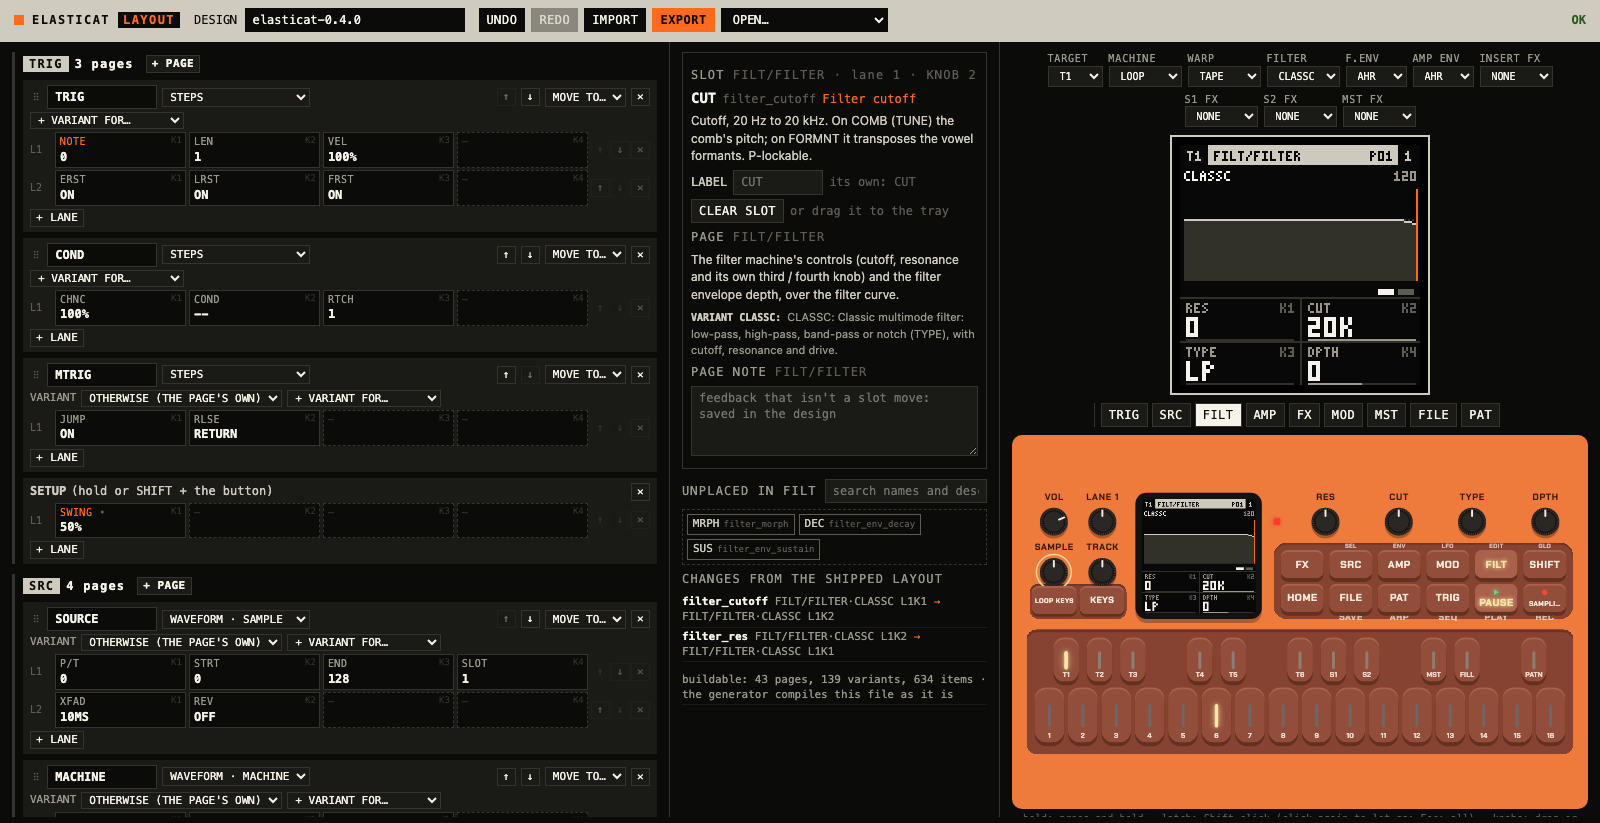
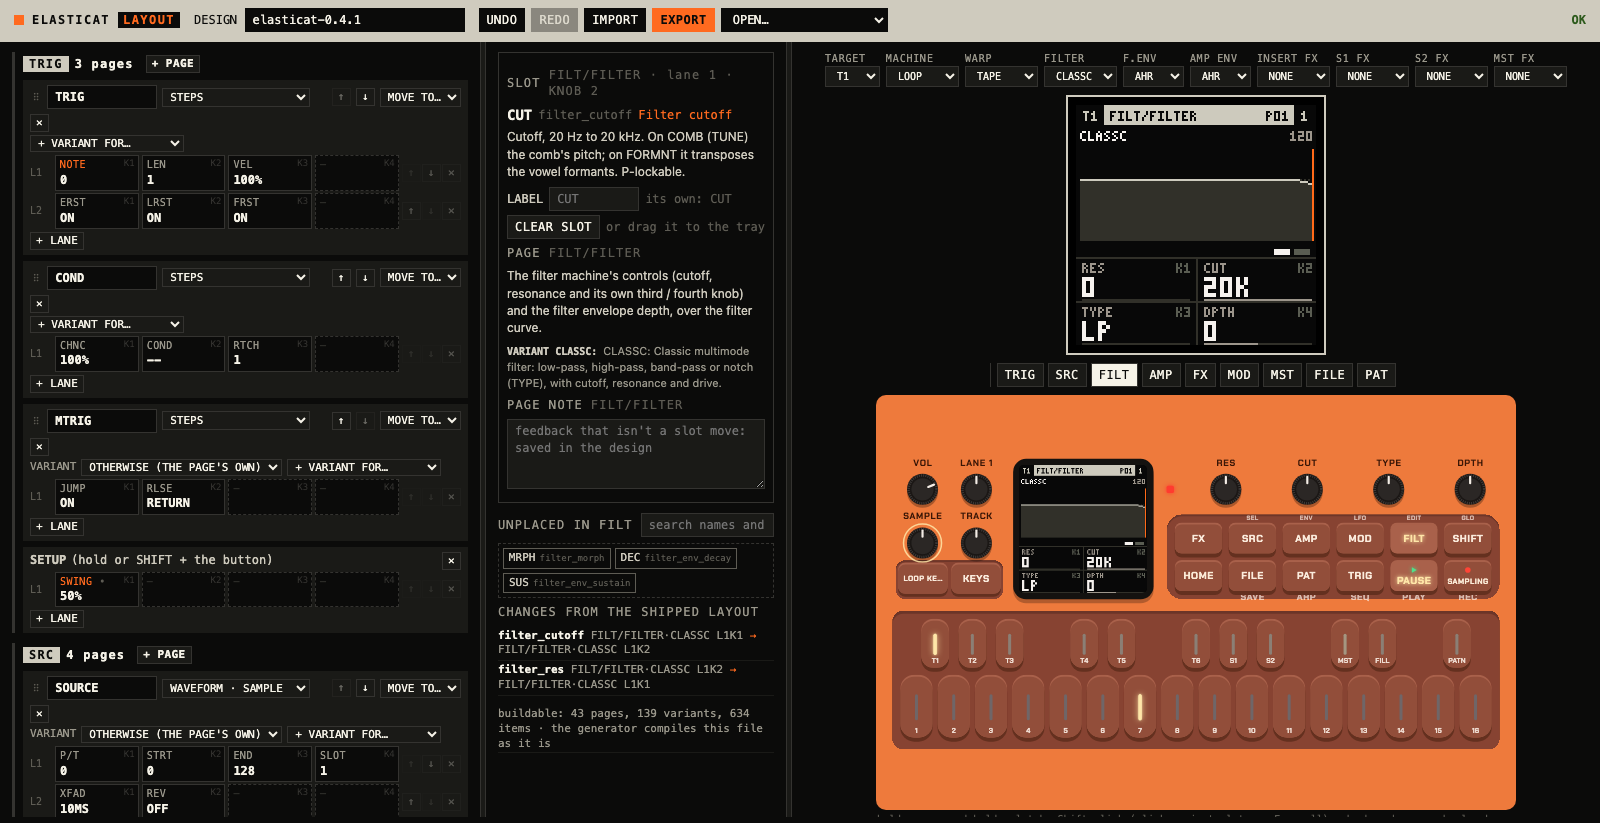
Layout designer: resizable columns, the tree 30% by default, lanes capped
Two splitters between tree | side | preview: the tree a share of the
width (30% by default, at least 300 px), the side in px (at least 220),
the preview the rest (at least 470 px, the FM-1 at most 640). Kept in
local storage; a double-click on a splitter resets its column. A lane is
at most 560 px wide. test_designer.mjs 9: 30% at 1280 and 2000 px, a drag,
kept across a reload, the double-click; 09_columns_2000.png.

diff --git a/tools/layout/designer.js b/tools/layout/designer.js
@@ -891,6 +891,54 @@ function drawPanel() {
   P.view.draw();
 }
 
+// ------------------------------------------------------------------------------------------------ the column widths
+// tree | side | preview, two splitters: the tree a share of the width (30% by default), the side in px, the preview
+// the rest (never under its minimum, so the screen and the FM-1 stay whole). Kept in this browser; a double-click on
+// a splitter gives its column back its default.
+const COLS_STORE = "elasticat-layout-cols-v1";
+const COLS = { tree: 0.30, side: 300, treeMin: 300, sideMin: 220, centreMin: 470, split: 6 };
+const cols = { tree: COLS.tree, side: COLS.side };
+try { Object.assign(cols, JSON.parse(localStorage.getItem(COLS_STORE)) || {}); } catch (e) { /* defaults */ }
+if (!(cols.tree > 0 && cols.tree < 1)) cols.tree = COLS.tree;
+if (!(cols.side > 0 && cols.side < 4000)) cols.side = COLS.side;
+function sizeColumns(save) {
+  const main = $("main"), W = main.clientWidth, room = W - 2 * COLS.split - COLS.centreMin;
+  const side = Math.round(Math.max(COLS.sideMin, Math.min(cols.side, room - COLS.treeMin)));
+  const tree = Math.round(Math.max(COLS.treeMin, Math.min(cols.tree * W, room - side)));
+  main.style.setProperty("--tree-w", tree + "px");
+  main.style.setProperty("--side-w", side + "px");
+  if (save) try { localStorage.setItem(COLS_STORE, JSON.stringify(cols)); } catch (e) { /* not kept */ }
+}
+function setupSplitters() {
+  const main = $("main");
+  [["#split0", "tree"], ["#split1", "side"]].forEach(([sel, which]) => {
+    const sp = $(sel);
+    sp.addEventListener("pointerdown", (ev) => {
+      ev.preventDefault();
+      sp.setPointerCapture(ev.pointerId);
+      sp.classList.add("drag"); document.body.classList.add("coldrag");
+      const x0 = ev.clientX, t0 = $("#tree").offsetWidth, s0 = $("#side").offsetWidth, W = main.clientWidth;
+      const move = (e) => {
+        const dx = e.clientX - x0;
+        if (which === "tree") cols.tree = (t0 + dx) / W; else cols.side = s0 + dx;
+        sizeColumns(false);
+      };
+      const up = () => {
+        sp.removeEventListener("pointermove", move); sp.removeEventListener("pointerup", up); sp.removeEventListener("pointercancel", up);
+        sp.classList.remove("drag"); document.body.classList.remove("coldrag");
+        // keep what the clamps gave, not what the pointer asked
+        cols.tree = $("#tree").offsetWidth / W; cols.side = $("#side").offsetWidth;
+        sizeColumns(true);
+      };
+      sp.addEventListener("pointermove", move); sp.addEventListener("pointerup", up); sp.addEventListener("pointercancel", up);
+    });
+    sp.addEventListener("dblclick", () => { cols[which] = COLS[which]; sizeColumns(true); });
+  });
+  window.addEventListener("resize", () => sizeColumns(false));
+  sizeColumns(false);
+}
+setupSplitters();
+
 // ------------------------------------------------------------------------------------------------ the test API
 function ref(scope, a = {}) { return { scope, cat: a.cat, pi: a.pi, bus: a.bus, vi: a.vi ?? -1, lane: a.lane ?? 0, k: a.k ?? 0 }; }
 window.designer = {
@@ -925,5 +973,7 @@ window.designer = {
     releaseLatches: () => S.panel.controls.releaseLatches(),
   },
   desc: () => S.desc,
+  // the three columns' widths (px) and the page's
+  columns: () => ({ main: $("main").clientWidth, tree: $("#tree").offsetWidth, side: $("#side").offsetWidth, centre: $("#centre").offsetWidth }),
 };
 boot().catch((e) => { document.body.prepend(h("pre", { style: "color:#ff4a3d" }, "the preview did not start: " + (e && e.stack || e))); window.designer.error = String(e); });

diff --git a/tools/layout/designer.css b/tools/layout/designer.css
@@ -30,9 +30,14 @@ input:focus, select:focus, textarea:focus, button:focus-visible { outline: 1px s
 #status { margin-left: auto; font-weight: 700; }
 #status .e { color: #b3261e; } #status .w { color: #7a5b00; } #status .ok { color: #2d5a1c; }
 /* the tree | the side | the preview with the FM-1 under it (bottom right) */
-main { display: grid; grid-template-columns: minmax(340px, 1fr) minmax(250px, 330px) minmax(470px, 600px);
+/* the widths: two splitters (designer.js sizeColumns: the tree ~30% by default, the side in px, the preview the rest) */
+main { display: grid; grid-template-columns: var(--tree-w, 30%) 6px var(--side-w, 300px) 6px minmax(470px, 1fr);
   gap: 0; height: calc(100vh - 48px); }
-main > section { overflow: auto; padding: 10px 12px; border-right: 1px solid var(--l3); }
+main > section { overflow: auto; padding: 10px 12px; min-width: 0; }
+.split { cursor: col-resize; background: var(--l2); border-left: 1px solid var(--l3); border-right: 1px solid var(--l3);
+  touch-action: none; user-select: none; }
+.split:hover, .split.drag { background: var(--acc); }
+body.coldrag { cursor: col-resize; user-select: none; }
 .h { color: var(--l8); letter-spacing: .1em; margin: 6px 0; display: flex; align-items: center; gap: 8px; }
 /* ---- the tree */
 .cat { margin-bottom: 10px; border-left: 3px solid var(--l3); padding-left: 8px; }
@@ -55,7 +60,8 @@ main > section { overflow: auto; padding: 10px 12px; border-right: 1px solid var
 .vrow { display: flex; align-items: center; gap: 5px; margin: 3px 0; color: var(--l8); font-size: 11px; flex-wrap: wrap; }
 .vrow select { font-size: 11px; padding: 0 3px; max-width: 220px; }
 .shared { color: var(--l8); font-size: 11px; margin: 3px 0; }
-.lane { display: grid; grid-template-columns: 22px repeat(4, minmax(0, 1fr)) auto; gap: 3px; margin: 2px 0; align-items: stretch; }
+.lane { display: grid; grid-template-columns: 22px repeat(4, minmax(0, 1fr)) auto; gap: 3px; margin: 2px 0; align-items: stretch;
+  max-width: 560px; }
 .lane .ln { color: var(--l5); font-size: 10px; align-self: center; }
 .lane.on .ln { color: var(--acc); font-weight: 700; }
 .lane .lops { display: flex; gap: 1px; align-items: center; opacity: .25; }
@@ -82,7 +88,7 @@ main > section { overflow: auto; padding: 10px 12px; border-right: 1px solid var
 #screenwrap { padding: 8px; background: #000; border: 2px solid var(--l12); flex: none; }
 /* the preview: 2x where the window is tall enough, smaller so the panel stays in view under it */
 #screen { --s: clamp(240px, calc(100vh - 600px), 480px); width: var(--s); height: var(--s); image-rendering: pixelated; display: block; background: var(--bg); }
-#panelwrap { width: 100%; }
+#panelwrap { width: 100%; max-width: 640px; }
 #panel { display: block; touch-action: none; user-select: none; border-radius: 10px; }
 .panelhint { color: var(--l5); font-size: 10px; margin-top: 3px; text-align: center; }
 #tip { position: fixed; z-index: 50; max-width: 360px; padding: 6px 9px; background: var(--l15); color: var(--bg);
@@ -118,7 +124,8 @@ main > section { overflow: auto; padding: 10px 12px; border-right: 1px solid var
 .empty-note { color: var(--l5); font-style: italic; }
 @media (max-width: 1100px) {
   main { grid-template-columns: 1fr; height: auto; }
-  main > section { border-right: 0; border-bottom: 1px solid var(--l3); }
+  main > section { border-bottom: 1px solid var(--l3); }
+  .split { display: none; }
   #centre { order: -1; }
   #panelwrap { max-width: 640px; }
 }

diff --git a/tools/layout/index.html b/tools/layout/index.html
@@ -23,12 +23,14 @@
 </header>
 <main>
   <section id="tree" aria-label="Categories, pages, lanes"></section>
+  <div class="split" id="split0" role="separator" aria-orientation="vertical" title="drag to resize · double-click: back to the default"></div>
   <section id="side">
     <div id="inspector"></div>
     <div id="tray"><div class="h">UNPLACED <input id="search" placeholder="search names and descriptions" spellcheck="false"></div><div id="traylist"></div></div>
     <div id="diff"><div class="h">CHANGES FROM THE SHIPPED LAYOUT</div><div id="difflist"></div></div>
     <div id="lint"></div>
   </section>
+  <div class="split" id="split1" role="separator" aria-orientation="vertical" title="drag to resize · double-click: back to the default"></div>
   <section id="centre">
     <div id="ctxbar"></div>
     <div id="unit">

diff --git a/tools/layout/README.md b/tools/layout/README.md
@@ -41,6 +41,9 @@ storage); **Export** is what counts.
   each bus's FX. Pages that depend on these show the variant for the context.
 - **Descriptions**: hover a slot, a tray chip, a page's header, a category or a context picker for a tooltip with
   what it does (`design/layout/descriptions.json`, below).
+- **The columns**: drag the bars between them to resize (the tree starts at 30% of the width, the preview keeps at
+  least 470 px so the screen and the FM-1 stay whole; a lane is at most 560 px wide). The widths are kept in this
+  browser; a double-click on a bar gives its column back its default.
 
 ## The FM-1 panel
 
